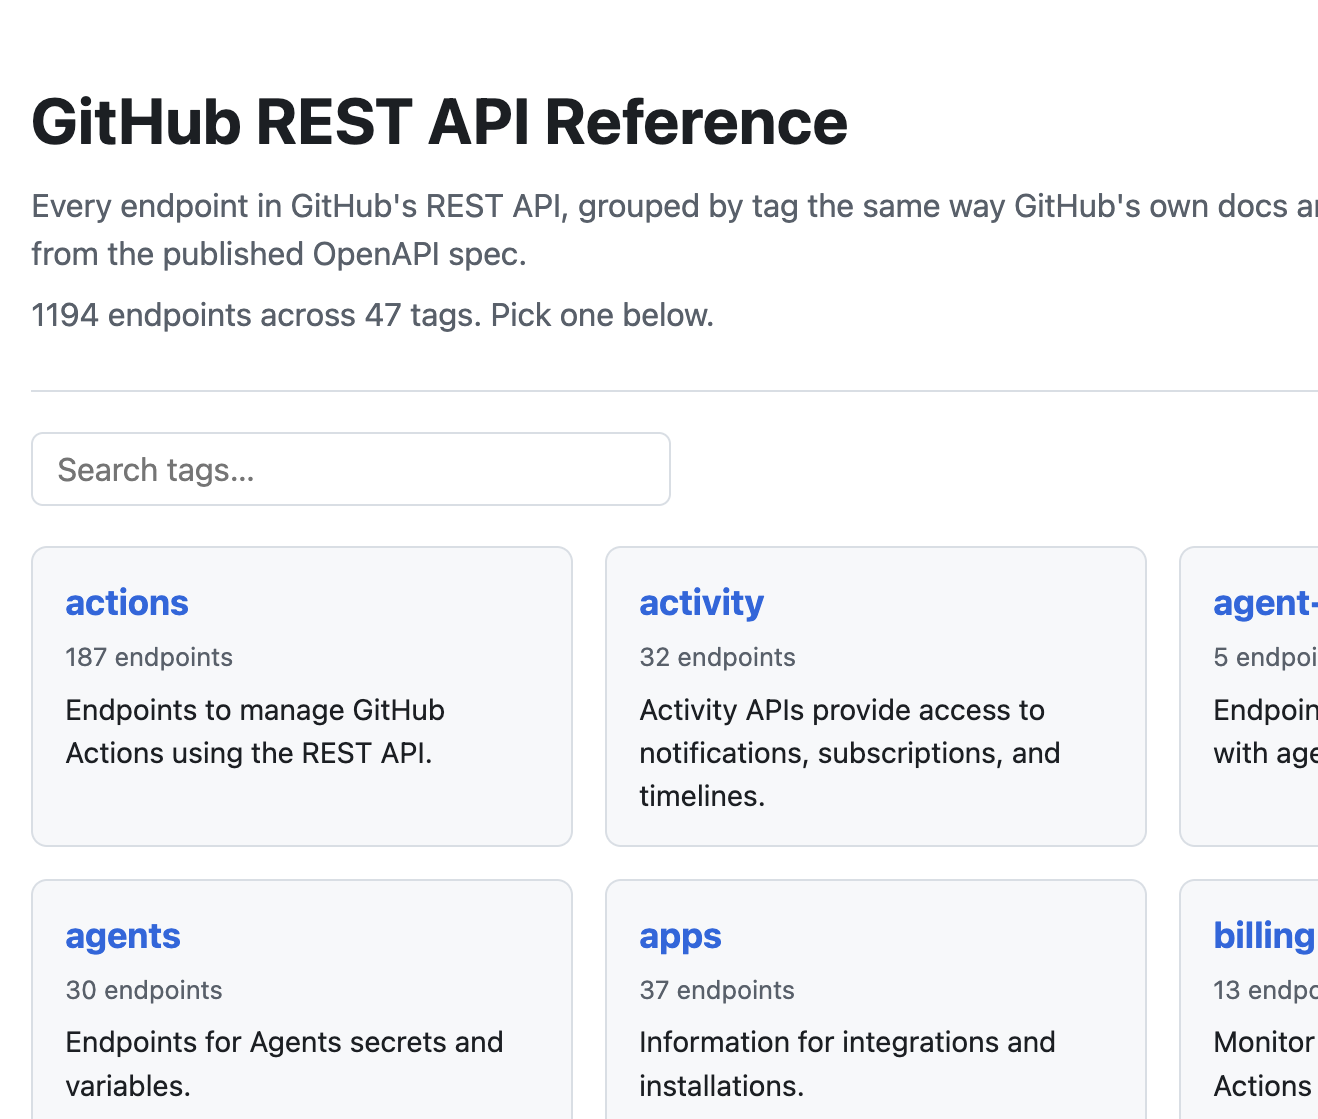
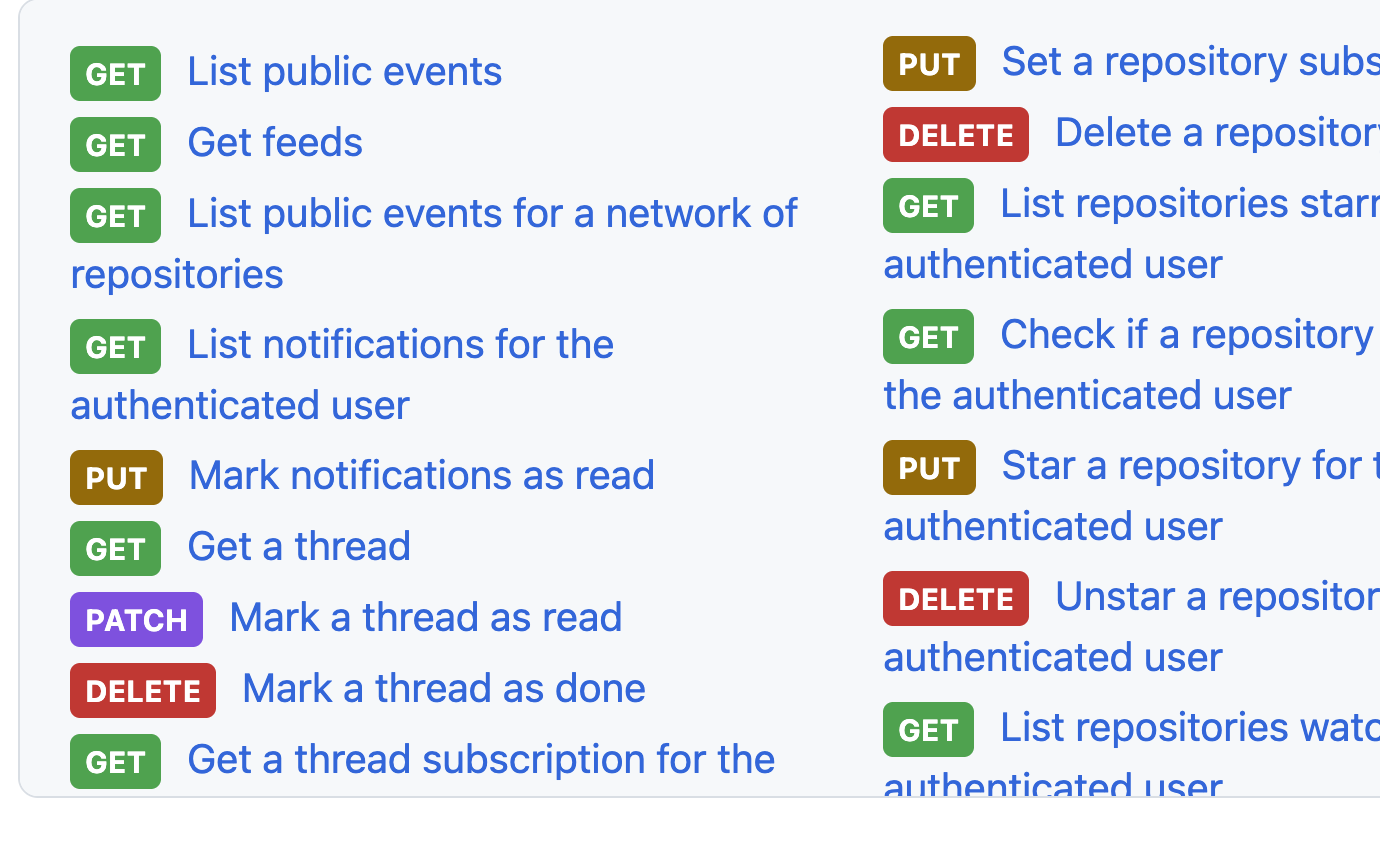
Change image display from cover to contain
Switch from object-fit: cover (cropped and centered) to object-fit: contain
(full image visible with padding). Images are now displayed entirely,
centered within the tile background color. Solves cropping issues for
logos with aspect ratios different from 16:10.

Changed region(s): [[0.0, 0.0308, 1.0, 0.4935], [0.0311, 0.5243, 1.0, 0.987], [0.4666, 0.5243, 1.0, 0.8019]]

diff --git a/static/css/style.css b/static/css/style.css
@@ -165,8 +165,7 @@ main {
 .tile-image img {
   width: 100%;
   height: 100%;
-  object-fit: cover;
-  object-position: top;
+  object-fit: contain;
 }
 
 .tile-content {
